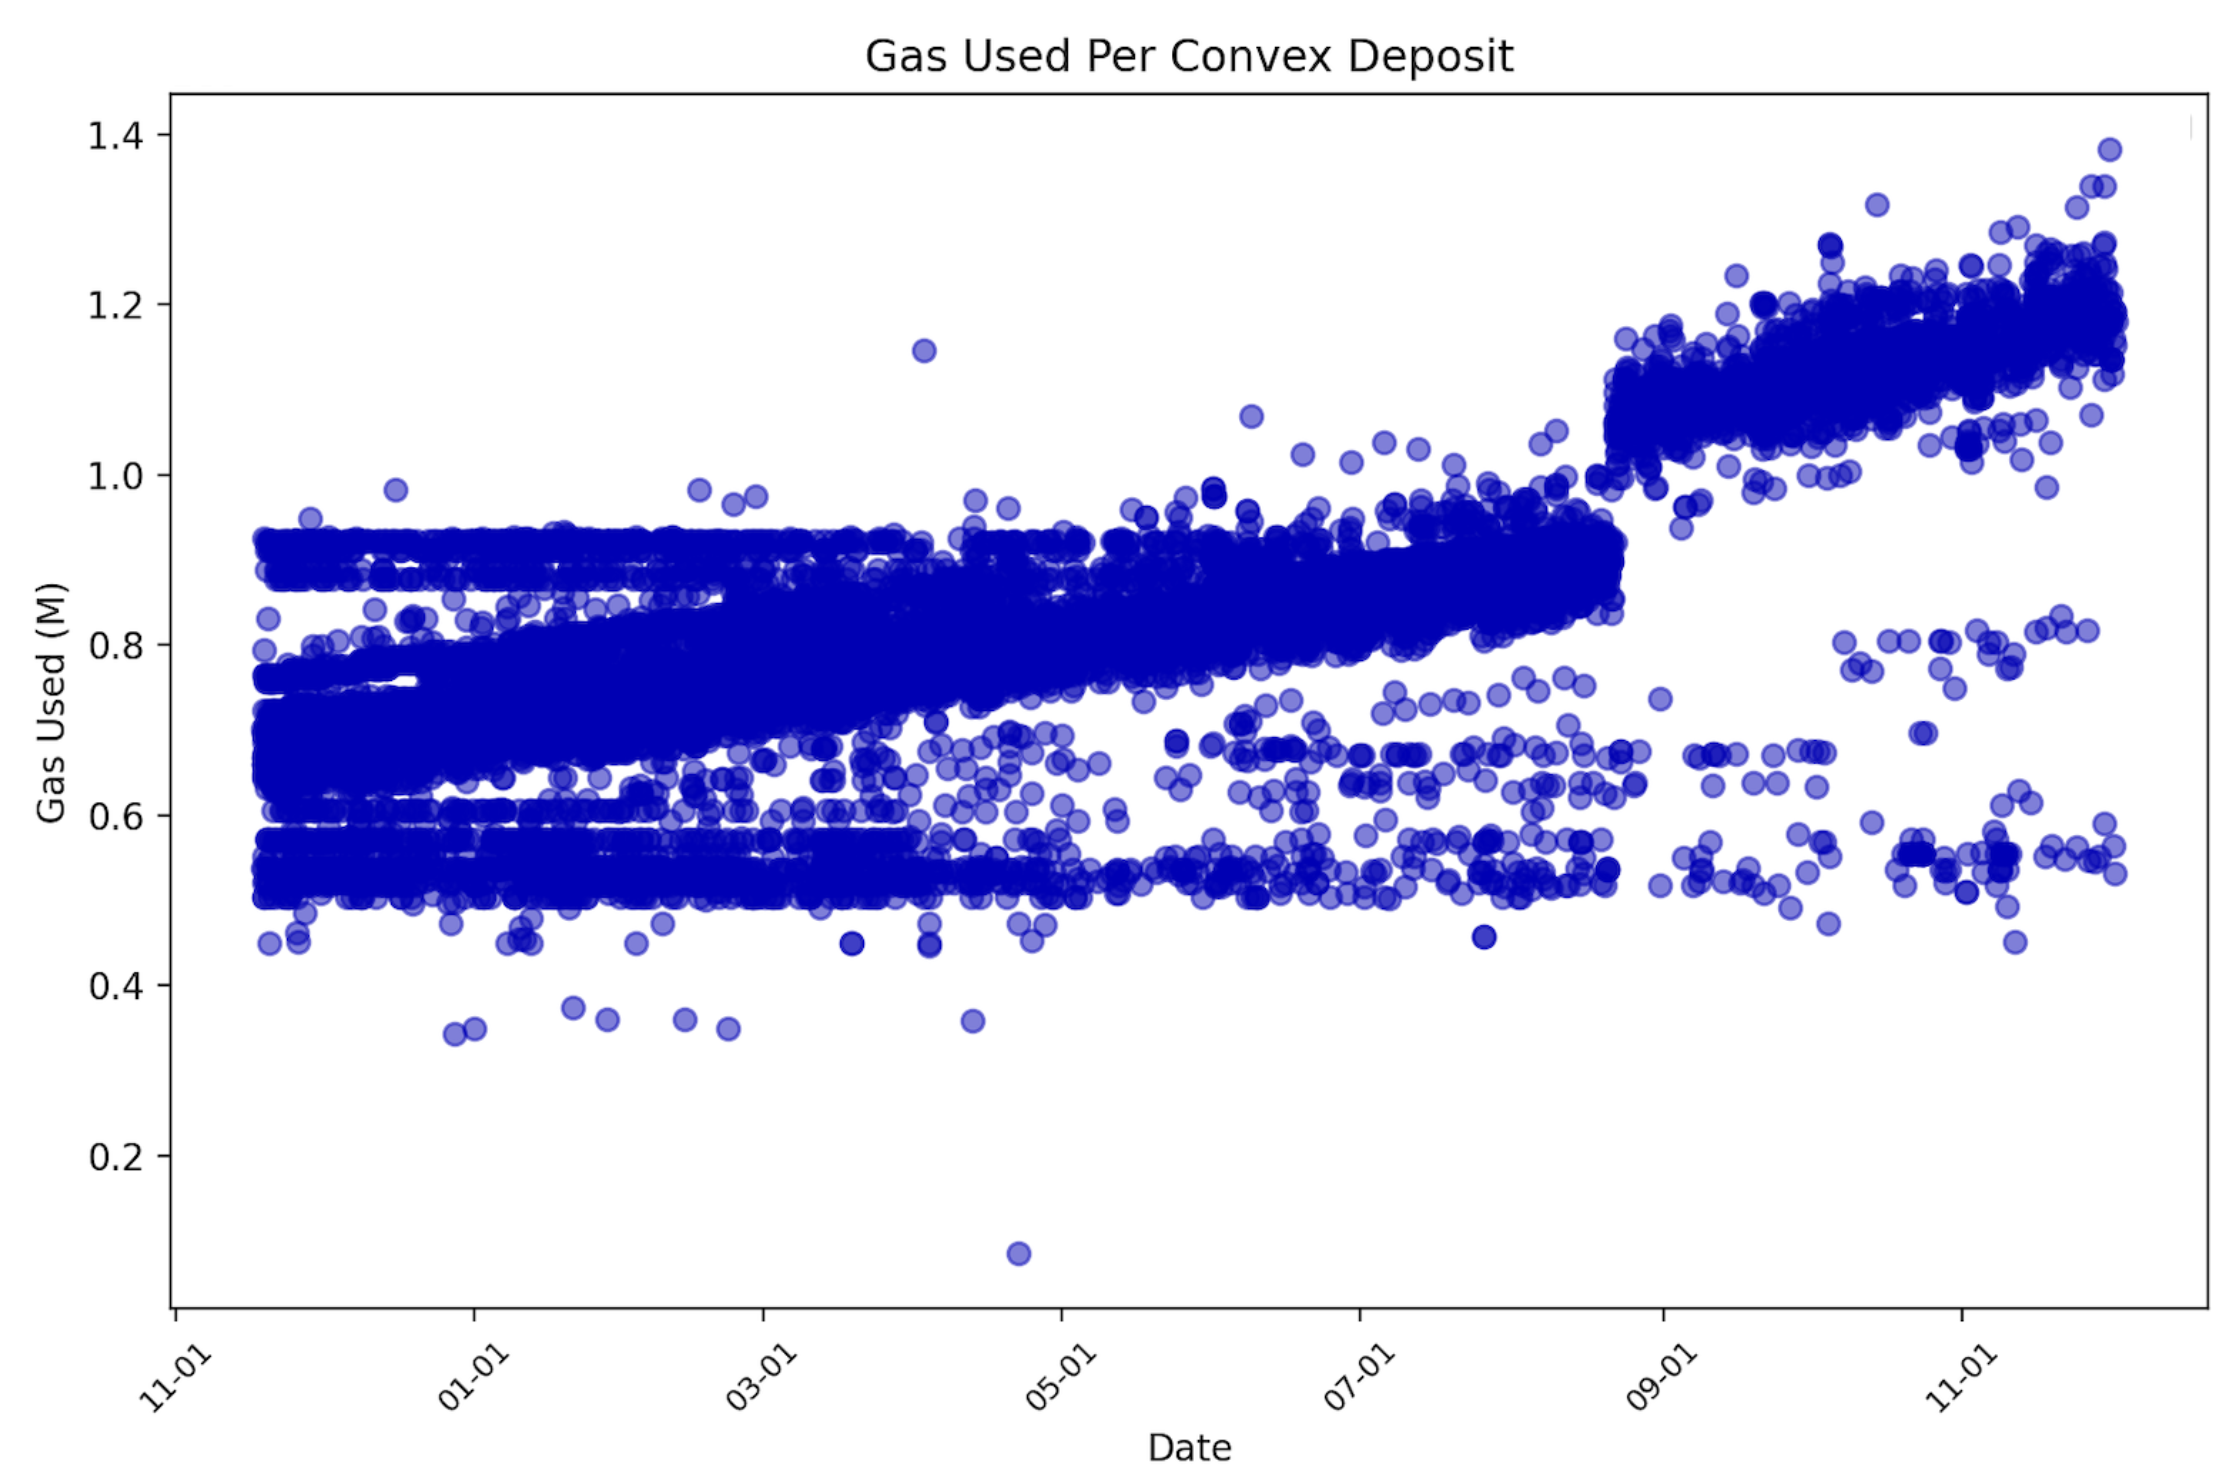
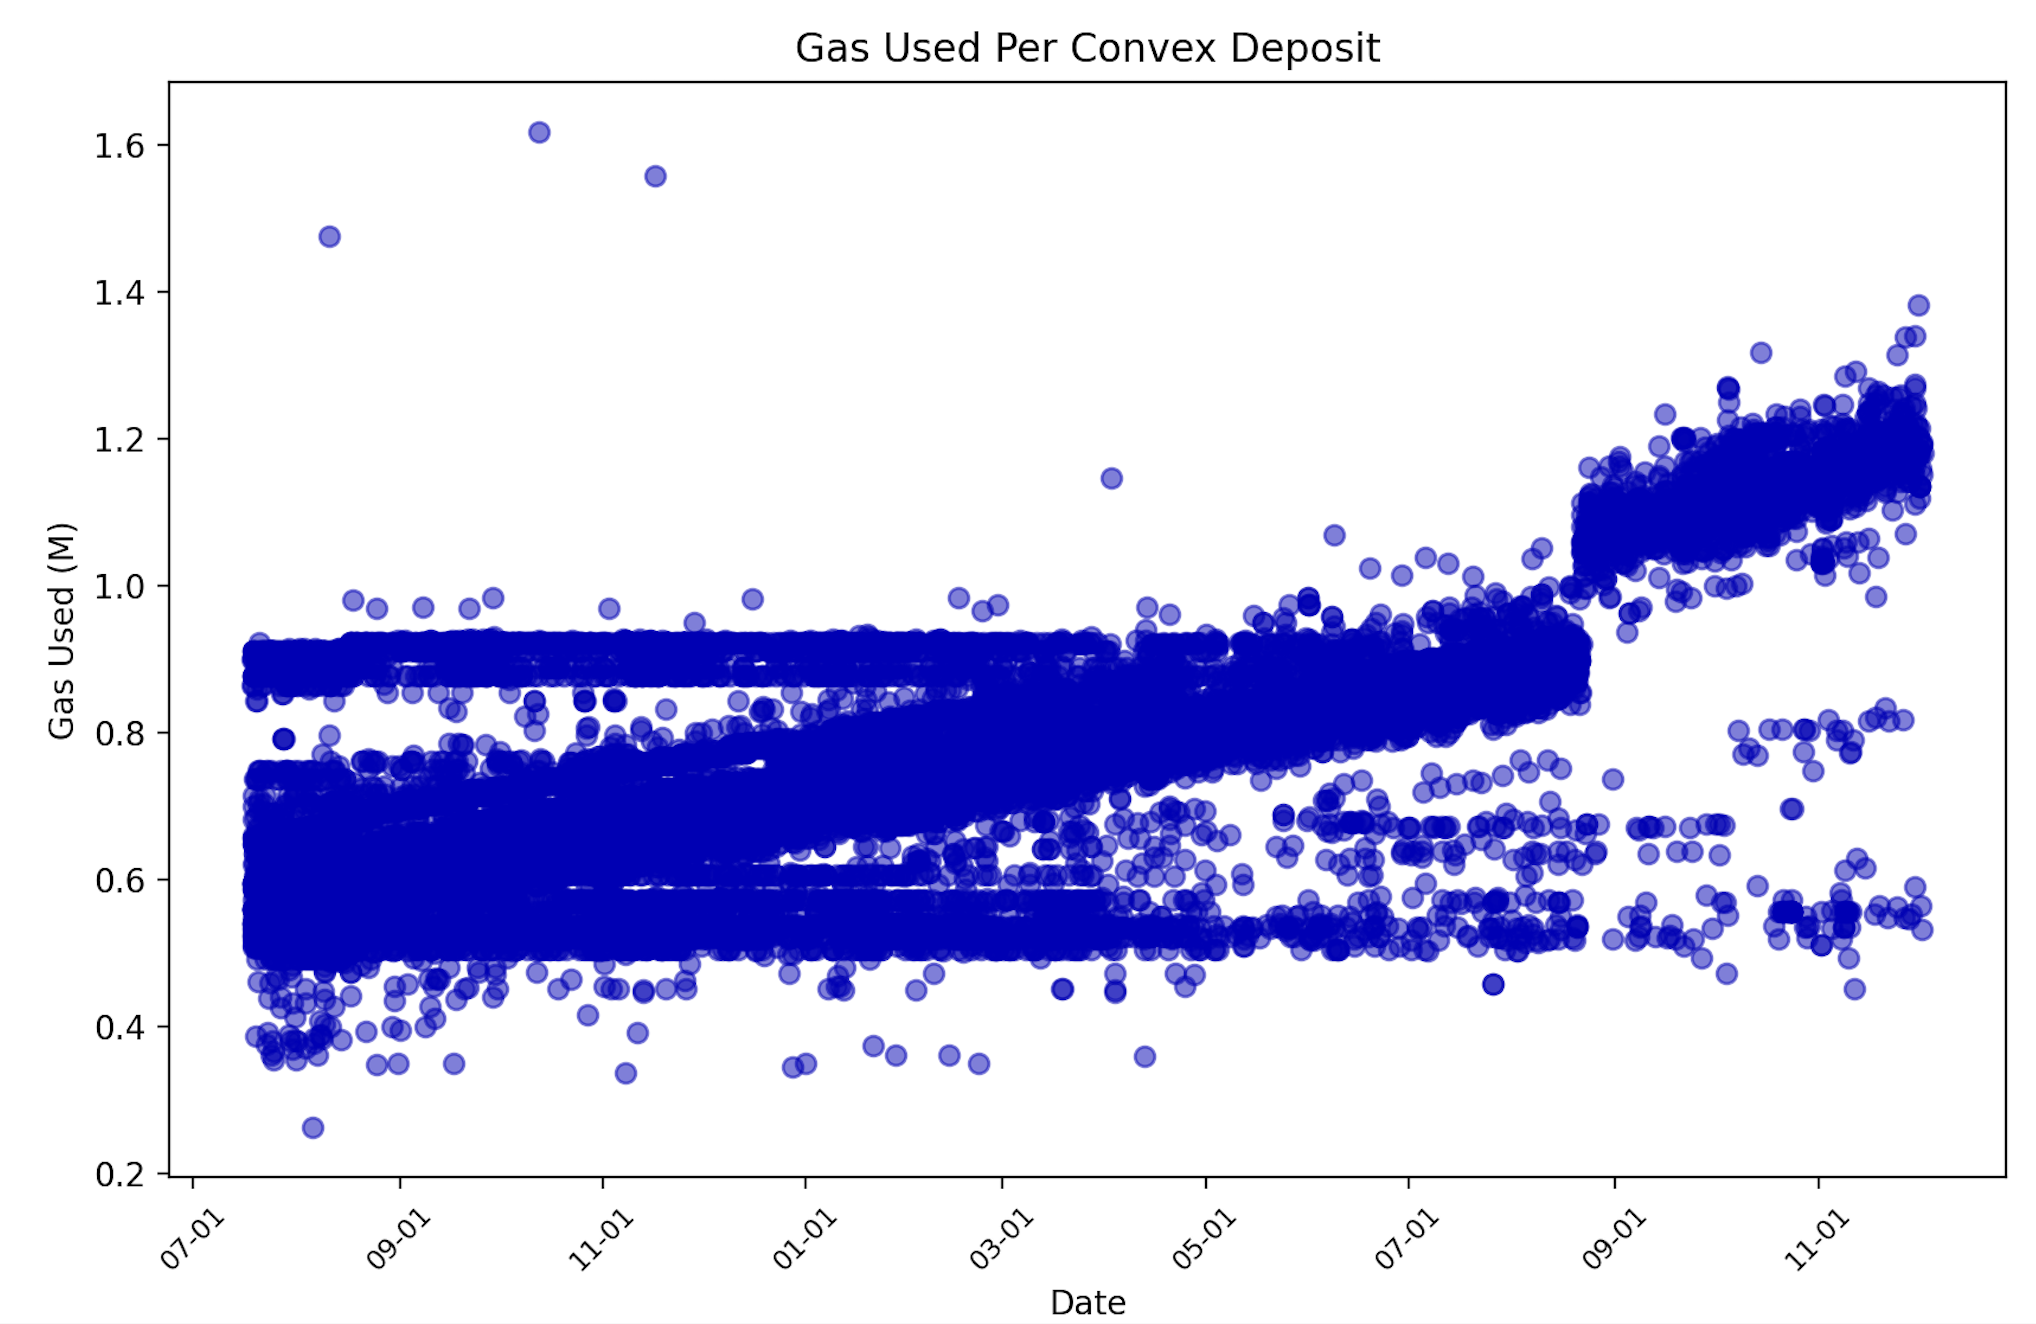
fix chart image

diff --git a/_posts/2023-12-28-convex-just-got-cheaper.md b/_posts/2023-12-28-convex-just-got-cheaper.md
@@ -12,12 +12,12 @@ If you're like me, you've noticed gas costs becoming inordinately expensive when
 
 What I found was an extremely inefficient code path which actually had nothing to do with Convex contracts at all - despite it having an outsized impact on their users specifically. In fact, the gas guzzling code turned out to be related to a niche feature in Curve's LP gauges. 
 
-To visualize it, I analyzed data from every Convex deposit over the last ~14 months, and the gas consumption of each. 
+To visualize it, I analyzed data from every Convex deposit over the last ~18 months, and the gas consumption of each. 
 
 <p align="center" >
     <img src="/assets/img/gas_chart0.png" alt="Alt text" width="800"/>
     <em style="color: #808080;">
-        Gas cost of each deposit transaction sent to Convex in the last 14 months.
+        Gas cost of each deposit transaction sent to Convex in the last 18 months.
     </em>
 </p>
 
